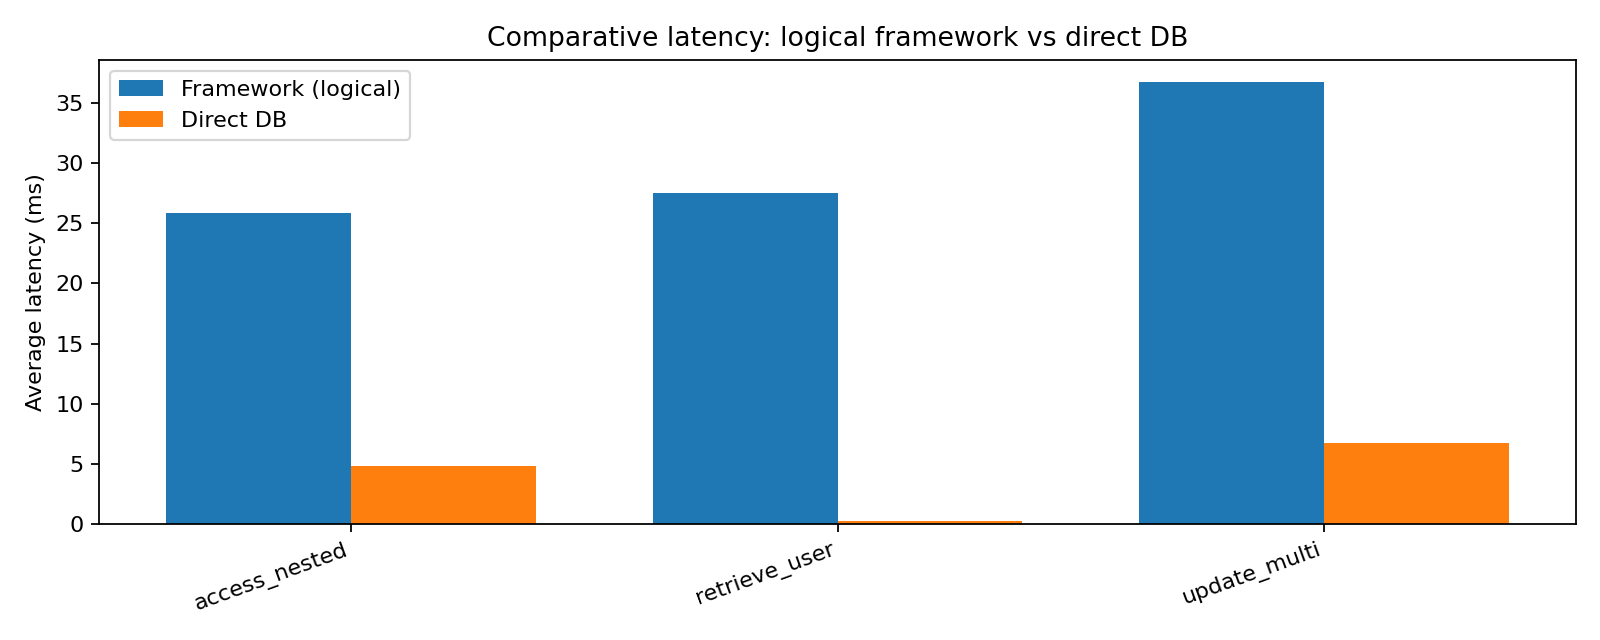
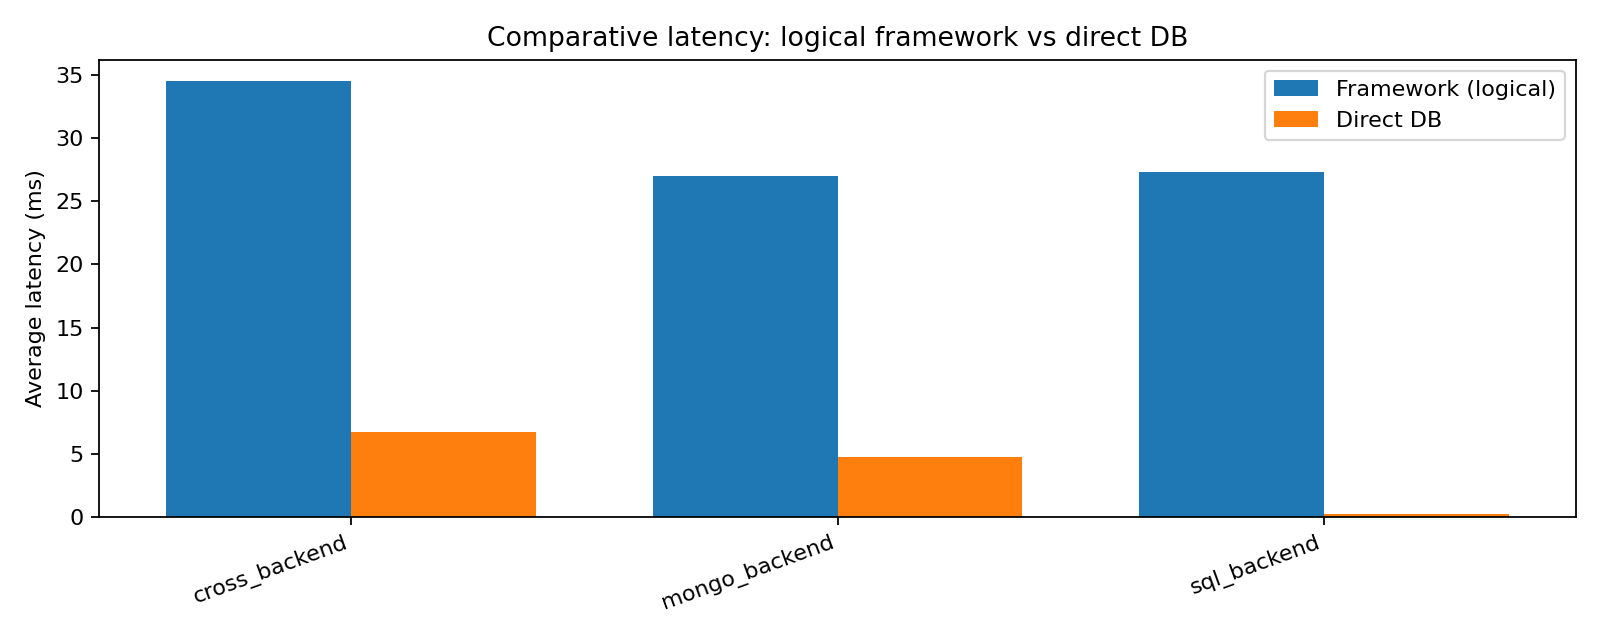
fixed few errors

diff --git a/adaptive_ingestion/perf_eval.py b/adaptive_ingestion/perf_eval.py
@@ -639,9 +639,9 @@ def run_compare_http(args) -> dict[str, Any]:
     # --- Latency comparisons (fixed n) ---
     n = args.n_queries
     for scenario, fw_fn, dr_fn in [
-        ("retrieve_user", framework_read_user, direct_sql_read_user),
-        ("access_nested", framework_read_nested, direct_mongo_read_nested),
-        ("update_multi", framework_update_multi, direct_update_multi),
+        ("sql_backend", framework_read_user, direct_sql_read_user),
+        ("mongo_backend", framework_read_nested, direct_mongo_read_nested),
+        ("cross_backend", framework_update_multi, direct_update_multi),
     ]:
         fw_stats = measure_latency(fw_fn, n)
         dr_stats = measure_latency(dr_fn, n)
@@ -651,9 +651,9 @@ def run_compare_http(args) -> dict[str, Any]:
     # --- Throughput under increasing workload (ops/sec) ---
     workloads = [50, 100, 200, 400]
     for scenario, fw_fn, dr_fn in [
-        ("retrieve_user", framework_read_user, direct_sql_read_user),
-        ("access_nested", framework_read_nested, direct_mongo_read_nested),
-        ("update_multi", framework_update_multi, direct_update_multi),
+        ("sql_backend", framework_read_user, direct_sql_read_user),
+        ("mongo_backend", framework_read_nested, direct_mongo_read_nested),
+        ("cross_backend", framework_update_multi, direct_update_multi),
     ]:
         for w in workloads:
             # framework
